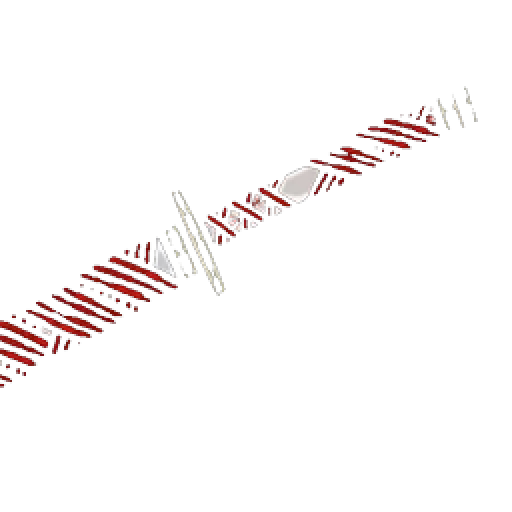
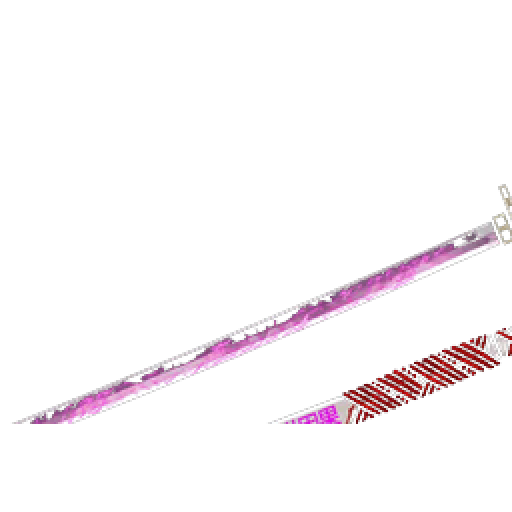
feat: 出鞘态改用官方出鞘刀贴图 + 新增 64x64 UV 图集供建模
- alaya_vijnana_drawn.png 换成新原图上半部分（白刃+紫粉半透明刃边+金刀镡+红绳柄）

- alaya_vijnana.png（鞘击态）改用新原图下半部分（白鞘+红字+红绳）

- 新增 textures/item/alaya_uv.png：64x64 分区图集（白刃带/金护手/红绳柄/白鞘带/缠绕/金板），供 Blockbench UV 映射

- 文档补充高精度模型路线（forge:obj + Blender）与官方图不能做 16x16 图标的原因

- 修正 build/resources 资源未同步导致贴图不变的问题

Changed region(s): [[0.0, 0.1875, 0.9375, 0.75], [0.0312, 0.3438, 1.0, 0.8438], [0.5312, 0.625, 1.0, 0.8438]]

diff --git a/SKILL.md b/SKILL.md
@@ -460,3 +460,22 @@ property 'mixin.env.refMapRemappingFile', "${projectDir}/build/createSrgToMcp/ou
 **注意**：这不是版本问题——20.14.17 和 20.14.8 在没加 refmap 时表现完全一样（tick 任意生物就崩）。
 
 相关环境：Forge 47.4.10、EF 20.14.8-mc1.20.1-forge、JDK 17（C:\jdk-17）。
+---
+
+## 附：高精度武器模型路线（用户 2026-10-17 确认的后续计划）
+
+参考对象：B 站视频【TacZ】阿赖耶识 —— TacZ（Timeless and Classics: Zero）的武器包体系，
+能做出官方立绘级别的高模刀身 + 拔刀/挥砍动画。TacZ 本身是枪械 mod，不适合直接承载太刀，
+因此本模组采用**等价技术栈**：
+
+| 阶段 | 方案 | 工具 | 产物 |
+|---|---|---|---|
+| ① 方块风（当前） | 原版 `item/handheld` 平面贴图 | 无需建模 | 已有（256×256 官方立绘裁切） |
+| ② 立体方块风 | Blockbench Java Block/Item 3D 模型 | **Blockbench** | `models/item/alaya_vijnana*.json` |
+| ③ 高模写实风 | **Forge 的 OBJ 加载器**（`"loader": "forge:obj"`） | **Blender** | `models/obj/*.obj` + `.mtl` + 高分辨率贴图 |
+| ④ 动作动画 | Epic Fight 动画数据包（`animmodels/animations/biped/alaya/*.json`）或 GeckoLib | Blockbench/Blender + EF 插件 | 拔刀、连段、技能动画 |
+
+关键结论（已实测）：
+- **官方立绘不能直接当 16×16 物品图标**（刀太细长，缩下去会消失）；官方图适合做**模型贴图**。
+- EF 的 mixin 在 ForgeGradle 开发环境必须开 `mixin.env.remapRefMap`，否则注入失败、任意生物 tick 崩服。
+- 战斗逻辑（延迟斩击 / 六技能 / 状态）**不依赖 EF**，EF 只负责渲染与动作层。
